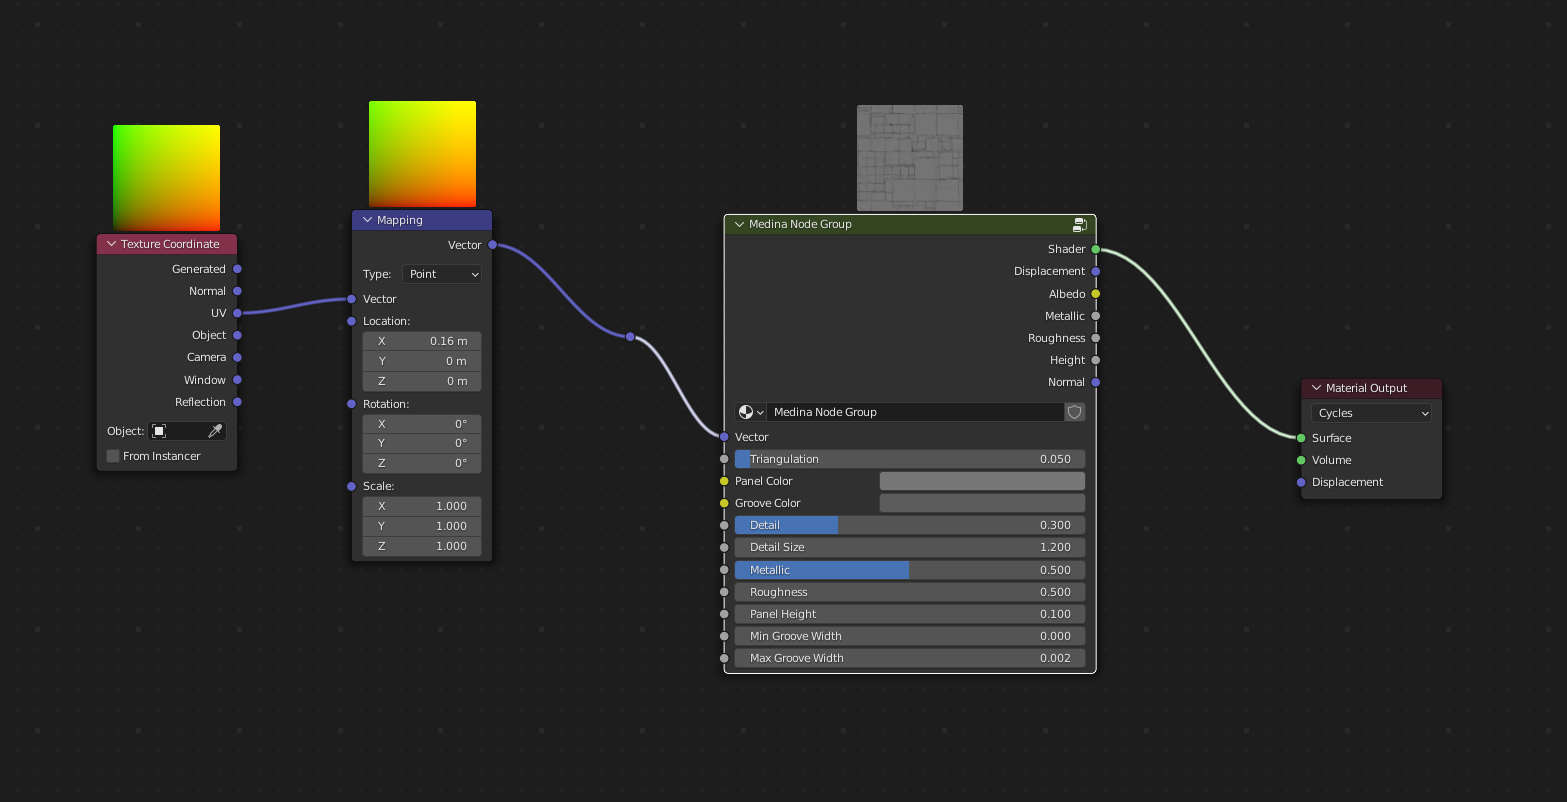
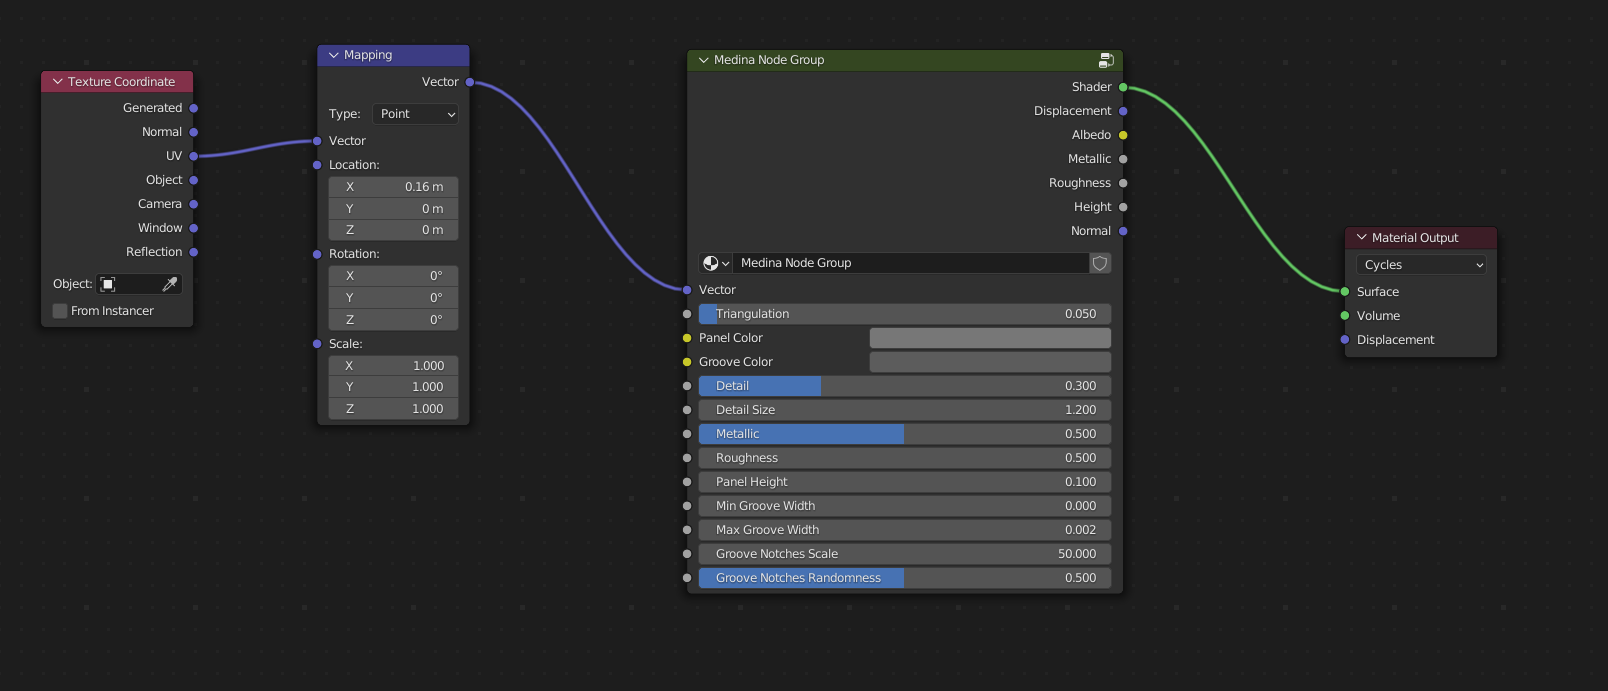
Added latest hull materials

diff --git a/docs/mat_medina.rst b/docs/mat_medina.rst
@@ -31,7 +31,8 @@ Medina Inputs
 * **Panel Height**: The height of the panels.
 * **Min Groove Width**: The minimum width of the blocked goove pattern.
 * **Max Groove Width**: The minimum width of the blocked goove pattern.
-
+* **Groove Notches Scale**: Size of the noise controlling the notches.
+* **Groove Notches Randomness**: Random element of the noise controlling the notches.
 
 Medina Outputs
 **************************************
